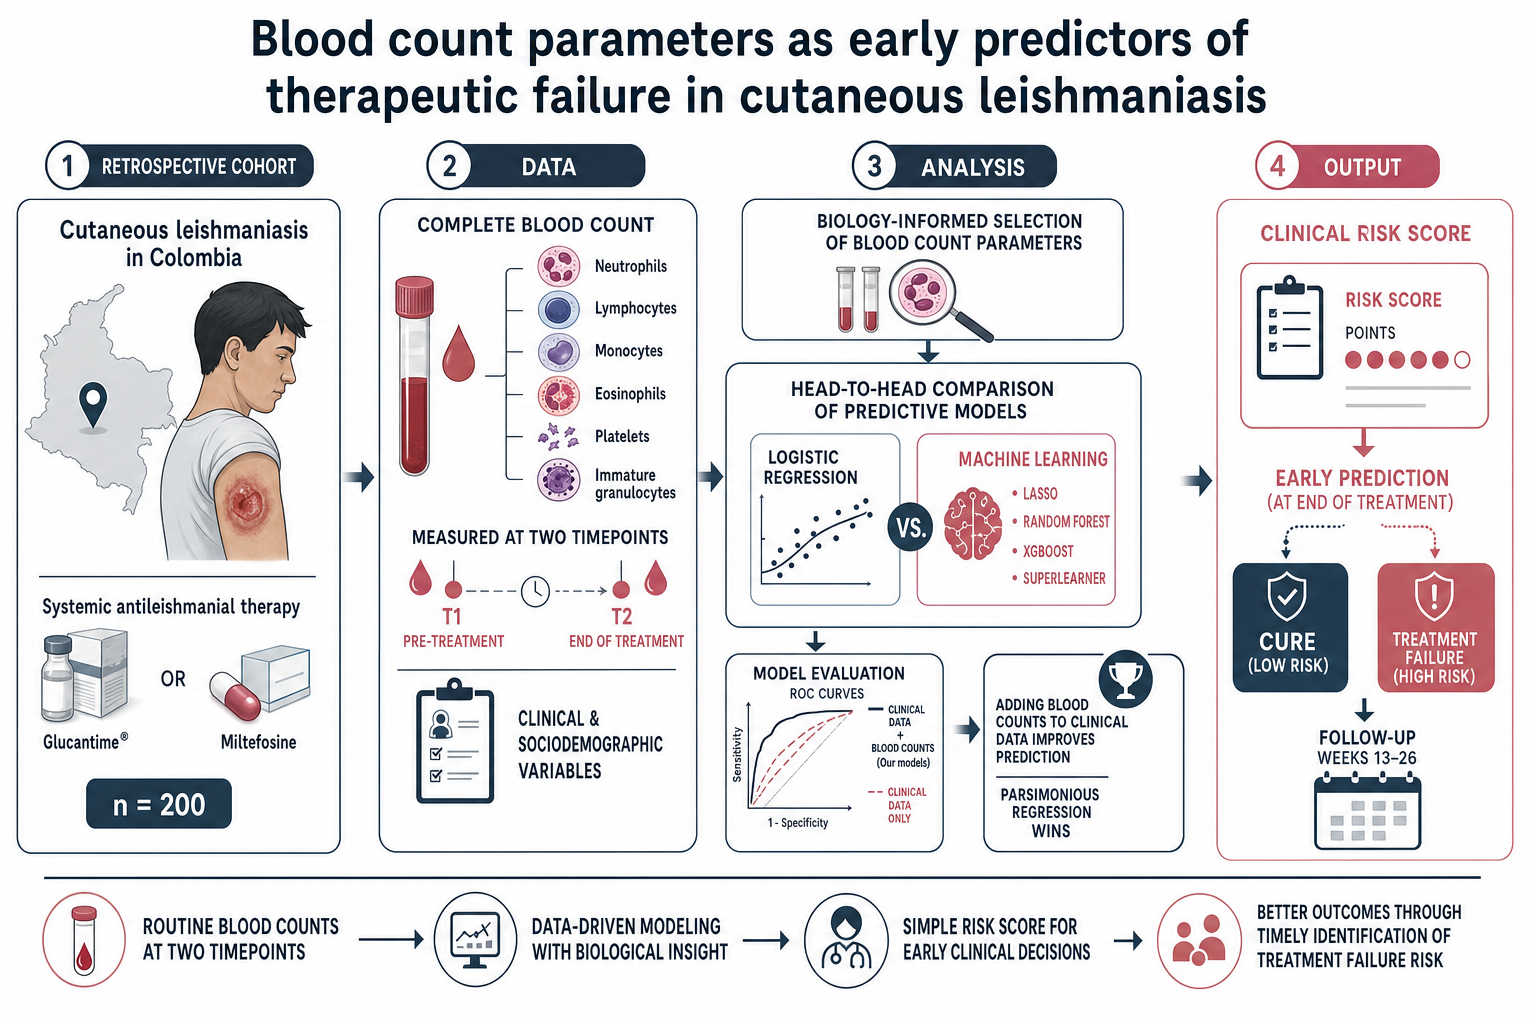
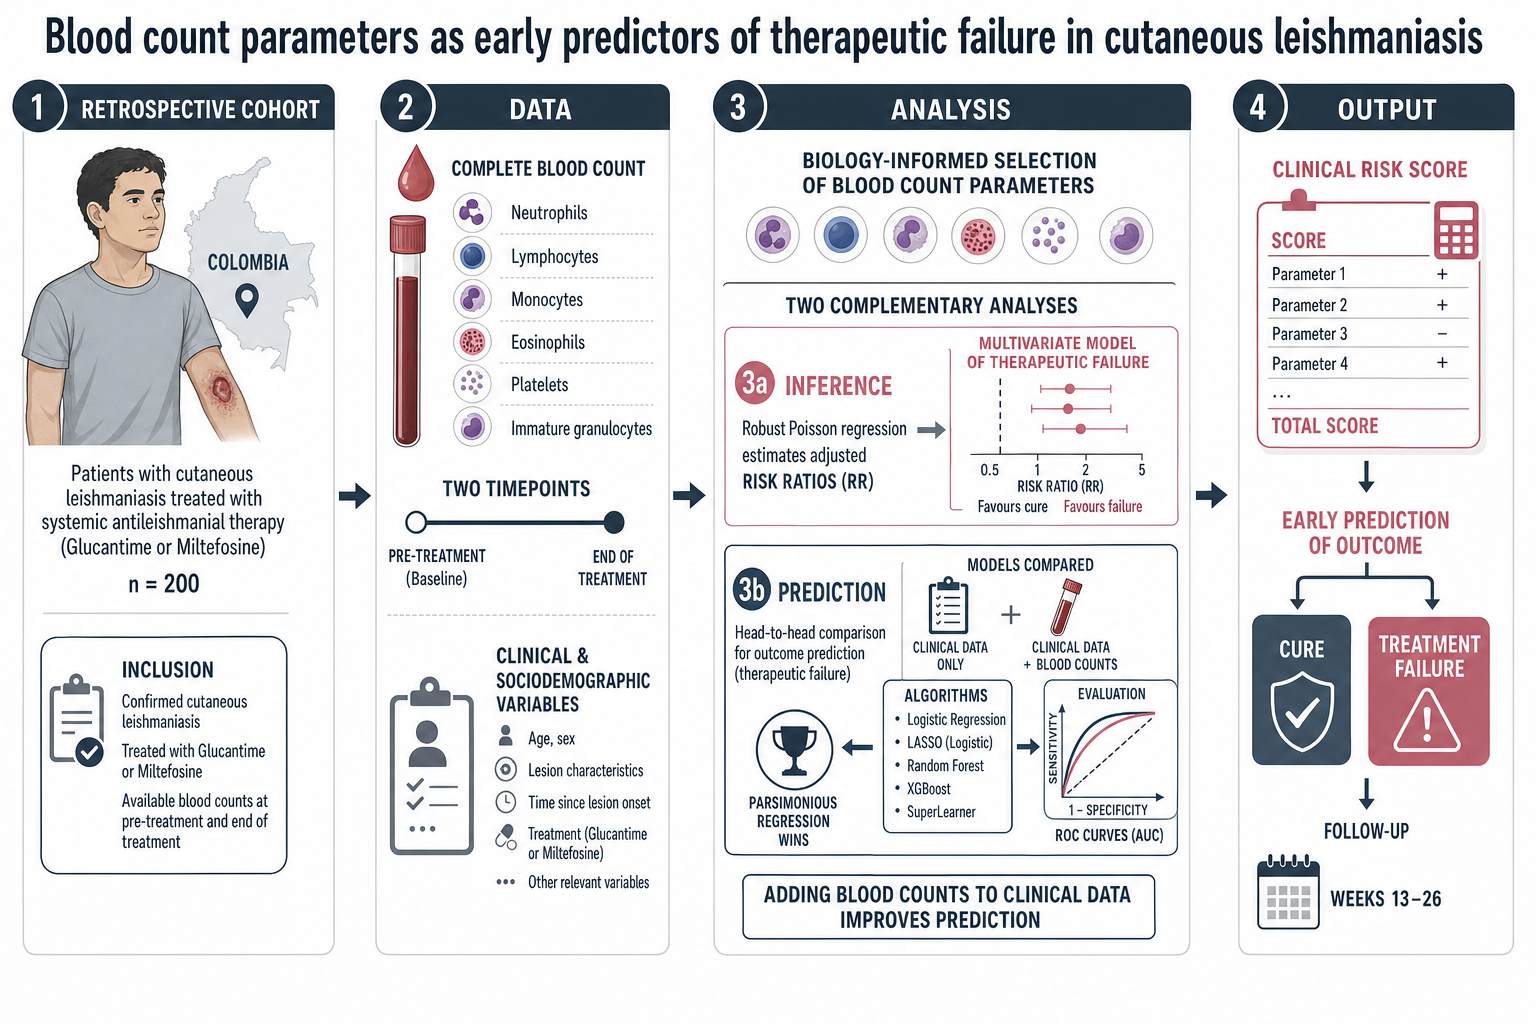
fix(tables): relabel univariate OR table (Table 2); Figure 1A now shows robust-Poisson RR / multivariate model alongside the prediction comparison

diff --git a/paper_results/tables/T2.md b/paper_results/tables/T2.md
@@ -53,33 +53,33 @@ Table: Univariate logistic regression (OR, 95% CI) for therapeutic failure. Mult
 
 |**Blood count parameters (pre-treatment)** | **OR** | **95% CI** | **p-value** |
 |:------------------------------------------|:------:|:----------:|:-----------:|
-|Neutrofilos_pre                            |  0.73  | 0.48, 1.12 |    0.150    |
-|Linfocitos_pre                             |  1.01  | 0.69, 1.49 |    0.940    |
-|Monocitos_pre                              |  0.89  | 0.59, 1.35 |    0.592    |
-|Eosinofilos_pre                            |  0.97  | 0.65, 1.44 |    0.879    |
-|Basofilos_pre                              |  0.99  | 0.67, 1.46 |    0.955    |
-|Granulocitos_pre                           |  0.54  | 0.29, 1.03 |    0.061    |
-|Globulos_rojos_pre                         |  1.20  | 0.81, 1.78 |    0.357    |
-|Hemoglobina_pre                            |  1.05  | 0.71, 1.54 |    0.813    |
-|Hematocrito_pre                            |  1.17  | 0.79, 1.73 |    0.432    |
-|Plaquetas_pre                              |  0.61  | 0.40, 0.94 |    0.027    |
-|pct_neutro_pre                             |  0.71  | 0.48, 1.04 |    0.080    |
-|pct_linfo_pre                              |  1.26  | 0.86, 1.85 |    0.238    |
-|pct_mono_pre                               |  1.25  | 0.86, 1.80 |    0.245    |
-|pct_eosino_pre                             |  1.30  | 0.90, 1.87 |    0.158    |
-|pct_baso_pre                               |  1.09  | 0.75, 1.58 |    0.650    |
-|i_neu_linfo_pre                            |  0.71  | 0.44, 1.15 |    0.165    |
-|i_eos_linfo_pre                            |  1.15  | 0.80, 1.64 |    0.455    |
-|i_mono_linfo_pre                           |  1.00  | 0.68, 1.48 |    0.981    |
-|i_baso_linfo_pre                           |  1.02  | 0.70, 1.50 |    0.902    |
-|i_granu_linfo_pre                          |  0.50  | 0.26, 0.94 |    0.032    |
-|i_eos_mono_pre                             |  1.13  | 0.78, 1.62 |    0.525    |
-|i_eos_neu_pre                              |  1.35  | 0.97, 1.87 |    0.079    |
-|i_eos_baso_pre                             |  1.09  | 0.75, 1.57 |    0.648    |
-|i_neu_mono_pre                             |  0.68  | 0.43, 1.06 |    0.085    |
-|i_neu_baso_pre                             |  0.84  | 0.53, 1.33 |    0.454    |
-|i_baso_mono_pre                            |  1.02  | 0.69, 1.49 |    0.926    |
-|i_monoeosneu_lin_pre                       |  0.77  | 0.49, 1.21 |    0.255    |
+|Neutrophils (pre-Tx)                            |  0.73  | 0.48, 1.12 |    0.150    |
+|Lymphocytes (pre-Tx)                             |  1.01  | 0.69, 1.49 |    0.940    |
+|Monocytes (pre-Tx)                              |  0.89  | 0.59, 1.35 |    0.592    |
+|Eosinophils (pre-Tx)                            |  0.97  | 0.65, 1.44 |    0.879    |
+|Basophils (pre-Tx)                              |  0.99  | 0.67, 1.46 |    0.955    |
+|Immature granulocytes (pre-Tx)                           |  0.54  | 0.29, 1.03 |    0.061    |
+|Red blood cells (pre-Tx)                         |  1.20  | 0.81, 1.78 |    0.357    |
+|Haemoglobin (pre-Tx)                            |  1.05  | 0.71, 1.54 |    0.813    |
+|Haematocrit (pre-Tx)                            |  1.17  | 0.79, 1.73 |    0.432    |
+|Platelets (pre-Tx)                              |  0.61  | 0.40, 0.94 |    0.027    |
+|Neutrophil % (pre-Tx)                             |  0.71  | 0.48, 1.04 |    0.080    |
+|Lymphocyte % (pre-Tx)                              |  1.26  | 0.86, 1.85 |    0.238    |
+|Monocyte % (pre-Tx)                               |  1.25  | 0.86, 1.80 |    0.245    |
+|Eosinophil % (pre-Tx)                             |  1.30  | 0.90, 1.87 |    0.158    |
+|Basophil % (pre-Tx)                               |  1.09  | 0.75, 1.58 |    0.650    |
+|Neutrophil/lymphocyte ratio (pre-Tx)                            |  0.71  | 0.44, 1.15 |    0.165    |
+|Eosinophil/lymphocyte ratio (pre-Tx)                            |  1.15  | 0.80, 1.64 |    0.455    |
+|Monocyte/lymphocyte ratio (pre-Tx)                           |  1.00  | 0.68, 1.48 |    0.981    |
+|Basophil/lymphocyte ratio (pre-Tx)                           |  1.02  | 0.70, 1.50 |    0.902    |
+|IG/lymphocyte ratio (pre-Tx)                          |  0.50  | 0.26, 0.94 |    0.032    |
+|Eosinophil/monocyte ratio (pre-Tx)                             |  1.13  | 0.78, 1.62 |    0.525    |
+|Eosinophil/neutrophil ratio (pre-Tx)                              |  1.35  | 0.97, 1.87 |    0.079    |
+|Eosinophil/basophil ratio (pre-Tx)                             |  1.09  | 0.75, 1.57 |    0.648    |
+|Neutrophil/monocyte ratio (pre-Tx)                             |  0.68  | 0.43, 1.06 |    0.085    |
+|Neutrophil/basophil ratio (pre-Tx)                             |  0.84  | 0.53, 1.33 |    0.454    |
+|Basophil/monocyte ratio (pre-Tx)                            |  1.02  | 0.69, 1.49 |    0.926    |
+|(mono+eos+neu)/lymphocyte ratio (pre-Tx)                       |  0.77  | 0.49, 1.21 |    0.255    |
 
 **End-of-treatment blood count**
 
@@ -87,32 +87,32 @@ Table: Univariate logistic regression (OR, 95% CI) for therapeutic failure. Mult
 
 |**Blood count parameters (end of treatment)** | **OR** | **95% CI** | **p-value** |
 |:---------------------------------------------|:------:|:----------:|:-----------:|
-|Neutrofilos_post                              |  0.91  | 0.59, 1.38 |    0.644    |
-|Linfocitos_post                               |  1.11  | 0.75, 1.64 |    0.598    |
-|Monocitos_post                                |  1.18  | 0.80, 1.74 |    0.414    |
-|Eosinofilos_post                              |  1.46  | 1.01, 2.11 |    0.043    |
-|Basofilos_post                                |  1.00  | 0.67, 1.51 |    0.985    |
-|Granulocitos_post                             |  0.94  | 0.61, 1.43 |    0.760    |
-|Globulos_rojos_post                           |  1.11  | 0.74, 1.67 |    0.611    |
-|Hemoglobina_post                              |  1.00  | 0.67, 1.51 |    0.986    |
-|Hematocrito_post                              |  1.17  | 0.78, 1.75 |    0.443    |
-|pct_neutro_post                               |  0.67  | 0.45, 1.01 |    0.057    |
-|pct_linfo_post                                |  1.04  | 0.69, 1.57 |    0.842    |
-|pct_mono_post                                 |  1.13  | 0.77, 1.68 |    0.525    |
-|pct_eosino_post                               |  1.71  | 1.17, 2.50 |    0.006    |
-|pct_baso_post                                 |  0.91  | 0.59, 1.39 |    0.653    |
-|i_neu_linfo_post                              |  0.74  | 0.45, 1.22 |    0.240    |
-|i_eos_linfo_post                              |  1.38  | 0.96, 1.97 |    0.077    |
-|i_mono_linfo_post                             |  1.00  | 0.66, 1.50 |    0.997    |
-|i_baso_linfo_post                             |  0.96  | 0.63, 1.46 |    0.851    |
-|i_granu_linfo_post                            |  0.69  | 0.38, 1.27 |    0.233    |
-|i_eos_mono_post                               |  1.34  | 0.94, 1.91 |    0.102    |
-|i_eos_neu_post                                |  1.60  | 1.12, 2.27 |    0.009    |
-|i_eos_baso_post                               |  1.25  | 0.89, 1.76 |    0.193    |
-|i_neu_mono_post                               |  0.70  | 0.45, 1.09 |    0.115    |
-|i_neu_baso_post                               |  0.75  | 0.46, 1.25 |    0.270    |
-|i_baso_mono_post                              |  0.91  | 0.59, 1.38 |    0.646    |
-|i_monoeosneu_lin_post                         |  0.89  | 0.57, 1.38 |    0.594    |
+|Neutrophils (EoTx)                              |  0.91  | 0.59, 1.38 |    0.644    |
+|Lymphocytes (EoTx)                               |  1.11  | 0.75, 1.64 |    0.598    |
+|Monocytes (EoTx)                                |  1.18  | 0.80, 1.74 |    0.414    |
+|Eosinophils (EoTx)                              |  1.46  | 1.01, 2.11 |    0.043    |
+|Basophils (EoTx)                                |  1.00  | 0.67, 1.51 |    0.985    |
+|Immature granulocytes (EoTx)                             |  0.94  | 0.61, 1.43 |    0.760    |
+|Red blood cells (EoTx)                           |  1.11  | 0.74, 1.67 |    0.611    |
+|Haemoglobin (EoTx)                              |  1.00  | 0.67, 1.51 |    0.986    |
+|Haematocrit (EoTx)                              |  1.17  | 0.78, 1.75 |    0.443    |
+|Neutrophil % (EoTx)                               |  0.67  | 0.45, 1.01 |    0.057    |
+|Lymphocyte % (EoTx)                                |  1.04  | 0.69, 1.57 |    0.842    |
+|Monocyte % (EoTx)                                 |  1.13  | 0.77, 1.68 |    0.525    |
+|Eosinophil % (EoTx)                               |  1.71  | 1.17, 2.50 |    0.006    |
+|Basophil % (EoTx)                                 |  0.91  | 0.59, 1.39 |    0.653    |
+|Neutrophil/lymphocyte ratio (EoTx)                              |  0.74  | 0.45, 1.22 |    0.240    |
+|Eosinophil/lymphocyte ratio (EoTx)                              |  1.38  | 0.96, 1.97 |    0.077    |
+|Monocyte/lymphocyte ratio (EoTx)                             |  1.00  | 0.66, 1.50 |    0.997    |
+|Basophil/lymphocyte ratio (EoTx)                             |  0.96  | 0.63, 1.46 |    0.851    |
+|IG/lymphocyte ratio (EoTx)                            |  0.69  | 0.38, 1.27 |    0.233    |
+|Eosinophil/monocyte ratio (EoTx)                               |  1.34  | 0.94, 1.91 |    0.102    |
+|Eosinophil/neutrophil ratio (EoTx)                                |  1.60  | 1.12, 2.27 |    0.009    |
+|Eosinophil/basophil ratio (EoTx)                               |  1.25  | 0.89, 1.76 |    0.193    |
+|Neutrophil/monocyte ratio (EoTx)                               |  0.70  | 0.45, 1.09 |    0.115    |
+|Neutrophil/basophil ratio (EoTx)                               |  0.75  | 0.46, 1.25 |    0.270    |
+|Basophil/monocyte ratio (EoTx)                              |  0.91  | 0.59, 1.38 |    0.646    |
+|(mono+eos+neu)/lymphocyte ratio (EoTx)                         |  0.89  | 0.57, 1.38 |    0.594    |
 
 **Pre-to-EoTx variation**
 
@@ -120,15 +120,15 @@ Table: Univariate logistic regression (OR, 95% CI) for therapeutic failure. Mult
 
 |**Blood count variation (end of treatment - pre)** | **OR** | **95% CI** | **p-value** |
 |:--------------------------------------------------|:------:|:----------:|:-----------:|
-|var_Neutrofilos                                    |  1.12  | 0.74, 1.70 |    0.577    |
-|var_Linfocitos                                     |  1.18  | 0.79, 1.76 |    0.430    |
-|var_Monocitos                                      |  1.40  | 0.94, 2.08 |    0.098    |
-|var_Eosinofilos                                    |  2.13  | 1.35, 3.35 |    0.001    |
-|var_Basofilos                                      |  0.97  | 0.65, 1.46 |    0.900    |
-|var_Granulocitos                                   |  1.26  | 0.86, 1.86 |    0.236    |
-|var_Globulos_rojos                                 |  0.96  | 0.64, 1.45 |    0.856    |
-|var_Hemoglobina                                    |  0.95  | 0.63, 1.44 |    0.822    |
-|var_Hematocrito                                    |  0.97  | 0.64, 1.46 |    0.879    |
-|var_i_neu_linfo                                    |  0.85  | 0.55, 1.32 |    0.473    |
-|var_i_mono_linfo                                   |  1.00  | 0.67, 1.51 |    0.985    |
-|var_i_granu_linfo                                  |  0.96  | 0.62, 1.47 |    0.838    |
+|Δ Neutrophils (EoTx-pre)                                    |  1.12  | 0.74, 1.70 |    0.577    |
+|Δ Lymphocytes (EoTx-pre)                                     |  1.18  | 0.79, 1.76 |    0.430    |
+|Δ Monocytes (EoTx-pre)                                      |  1.40  | 0.94, 2.08 |    0.098    |
+|Δ Eosinophils (EoTx-pre)                                    |  2.13  | 1.35, 3.35 |    0.001    |
+|Δ Basophils (EoTx-pre)                                      |  0.97  | 0.65, 1.46 |    0.900    |
+|Δ Immature granulocytes (EoTx-pre)                                   |  1.26  | 0.86, 1.86 |    0.236    |
+|Δ Globulos (EoTx-pre)_rojos                                 |  0.96  | 0.64, 1.45 |    0.856    |
+|Δ Haemoglobin (EoTx-pre)                                    |  0.95  | 0.63, 1.44 |    0.822    |
+|Δ Haematocrit (EoTx-pre)                                    |  0.97  | 0.64, 1.46 |    0.879    |
+|Δ i (EoTx-pre)_neu_linfo                                    |  0.85  | 0.55, 1.32 |    0.473    |
+|Δ i (EoTx-pre)_mono_linfo                                   |  1.00  | 0.67, 1.51 |    0.985    |
+|Δ i (EoTx-pre)_granu_linfo                                  |  0.96  | 0.62, 1.47 |    0.838    |
